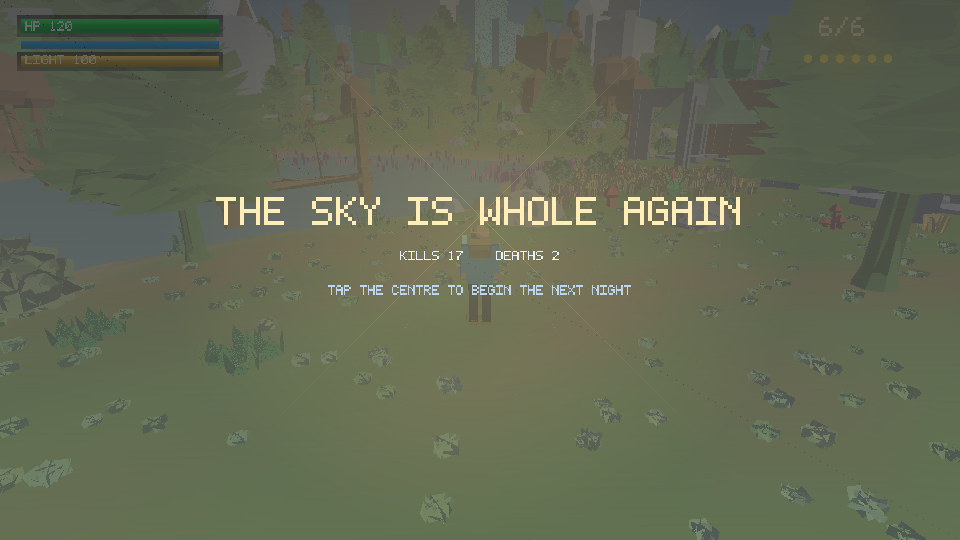
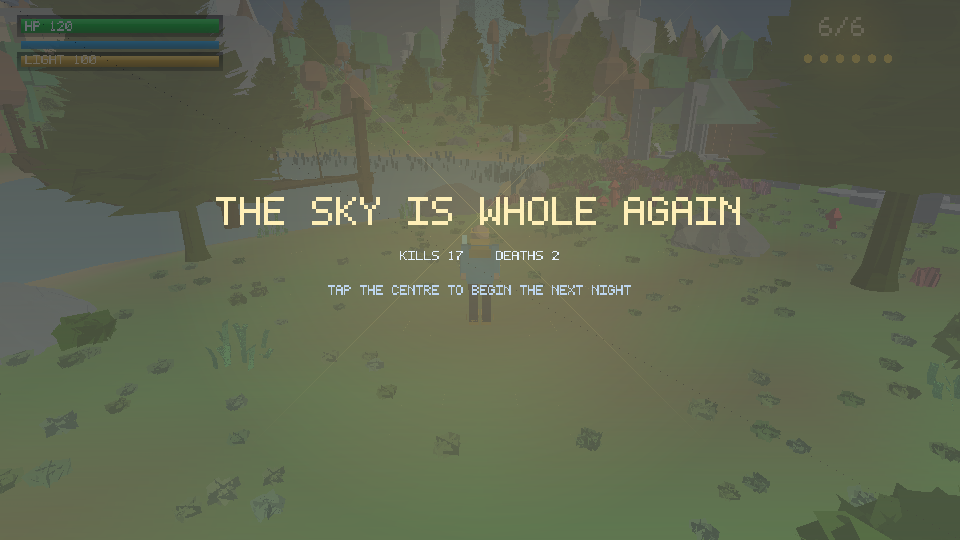
Expand the original fantasy valley landscape

diff --git a/app/src/main/java/com/laststar/game/gl/PropPlanner.java b/app/src/main/java/com/laststar/game/gl/PropPlanner.java
@@ -160,6 +160,7 @@ public final class PropPlanner {
         // quietly never appears. Attempt counts are high for the same reason:
         // water, slope, spawn clearance and overlaps reject most candidates.
         buildLandmarks(models, terrain, seed);
+        buildRidgeTown(models, terrain, seed);
         buildRidges(models, terrain, seed);
         buildPeaks(models, terrain, seed);
         buildPackMountains(models, terrain, seed);
@@ -728,6 +729,83 @@ public final class PropPlanner {
                 return;
             }
         }
+    }
+
+    /** A small original ridge settlement gives the valley a far destination and scale. */
+    private void buildRidgeTown(ModelLibrary models, Terrain terrain, long seed) {
+        float[] site = null;
+        float bestScore = Float.MAX_VALUE;
+        Random random = new Random(seed ^ 0x4D595DF4D0F33173L);
+        for (int i = 0; i < 360; i++) {
+            float angle = (float) Math.toRadians(205f + random.nextFloat() * 130f);
+            float radius = 82f + random.nextFloat() * 12f;
+            float x = (float) Math.cos(angle) * radius;
+            float z = (float) Math.sin(angle) * radius;
+            float h = terrain.heightAt(x, z);
+            if (z > -42f || h < terrain.waterLevel + 2f || terrain.slopeAt(x, z) > 0.48f
+                    || tooCloseToLandmarks(x, z, 25f)) continue;
+            float score = terrain.slopeAt(x, z) * 8f - h * 0.012f;
+            if (score < bestScore) { bestScore = score; site = new float[]{x, z}; }
+        }
+        if (site == null) return;
+
+        float cx = site[0], cz = site[1];
+        float yaw = (float) Math.toDegrees(Math.atan2(-cx, -cz));
+        float a = (float) Math.toRadians(yaw);
+        float tx = (float) Math.cos(a), tz = -(float) Math.sin(a);
+        // Three varied towers form a distinctive skyline without copying a
+        // particular game's city or landmark silhouette.
+        townPart(models, terrain, "tower-square-mid", cx, cz, 10f, yaw, -0.1f);
+        townPart(models, terrain, "tower-square-top-roof", cx, cz, 10.5f, yaw, 6.2f);
+        townPart(models, terrain, "flag-banner-long", cx, cz, 3.2f, yaw, 8.6f);
+        for (int side = -1; side <= 1; side += 2) {
+            float x = cx + tx * side * 17f;
+            float z = cz + tz * side * 17f;
+            townPart(models, terrain, "tower-hexagon-base", x, z, 7.2f, yaw, -0.1f);
+            townPart(models, terrain, "tower-hexagon-roof", x, z, 6.8f, yaw, 4.2f);
+            townPart(models, terrain, "flag-banner-long", x, z, 2.6f, yaw, 5.7f);
+        }
+        // A low stepped curtain wall and open gate sit across the ridge-facing side.
+        for (int i = -3; i <= 3; i++) {
+            float[] p = townPoint(cx, cz, yaw, i * 5.5f, 17f);
+            townPart(models, terrain, i == -3 || i == 3 ? "wall-pillar" : "wall",
+                    p[0], p[1], 5.5f, yaw + 90f, -0.15f);
+        }
+        float[] gate = townPoint(cx, cz, yaw, 0f, 17f);
+        townPart(models, terrain, "gate", gate[0], gate[1], 6.5f, yaw + 90f, 0f);
+
+        float[][] roof = {{0.76f, 0.32f, 0.27f}, {0.22f, 0.53f, 0.59f},
+                {0.65f, 0.48f, 0.73f}, {0.80f, 0.62f, 0.34f},
+                {0.79f, 0.42f, 0.31f}, {0.25f, 0.47f, 0.66f},
+                {0.68f, 0.55f, 0.36f}};
+        float[][] local = {{-15f, -8f}, {-5f, -8f}, {5f, -8f}, {15f, -8f},
+                {-11f, -19f}, {0f, -20f}, {11f, -19f}};
+        for (int i = 0; i < local.length; i++) {
+            float[] p = townPoint(cx, cz, yaw, local[i][0], local[i][1]);
+            VillageLayout.House house = new VillageLayout.House(p[0], p[1], yaw);
+            addBuildingPart(models, terrain, house, "wall-wood-door", 0f, 2.0f,
+                    3.9f, yaw, 0f, 0f, 0f, 0f, 0f);
+            addBuildingPart(models, terrain, house, "wall-doorway-square", 0f, -2.0f,
+                    3.9f, yaw + 180f, 0f, 0f, 0f, 0f, 0f);
+            addBuildingPart(models, terrain, house, "wall-doorway-square", -2.0f, 0f,
+                    3.9f, yaw - 90f, 0f, 0f, 0f, 0f, 0f);
+            addBuildingPart(models, terrain, house, "wall-doorway-square", 2.0f, 0f,
+                    3.9f, yaw + 90f, 0f, 0f, 0f, 0f, 0f);
+            addBuildingPart(models, terrain, house, "roof-point", 0f, 0f,
+                    4.7f, yaw, 1.8f, roof[i][0], roof[i][1], roof[i][2], 0.22f);
+        }
+    }
+
+    private float[] townPoint(float cx, float cz, float yaw, float localX, float localZ) {
+        float a = (float) Math.toRadians(yaw);
+        return new float[]{cx + (float) Math.cos(a) * localX + (float) Math.sin(a) * localZ,
+                cz - (float) Math.sin(a) * localX + (float) Math.cos(a) * localZ};
+    }
+
+    private void townPart(ModelLibrary models, Terrain terrain, String name,
+                          float x, float z, float metres, float yaw, float yOffset) {
+        terrainHeight = terrain.heightAt(x, z) + yOffset;
+        place(models, name, x, z, metres, yaw, 0f);
     }
 
     private void buildLandmarks(ModelLibrary models, Terrain terrain, long seed) {

diff --git a/app/src/main/java/com/laststar/game/gl/Geometry.java b/app/src/main/java/com/laststar/game/gl/Geometry.java
@@ -83,9 +83,9 @@ public final class Geometry {
 
                 // Base meadow: a warm yellow-green in the sun, deepening to a
                 // saturated teal-green in the hollows.
-                float gr = Noise.lerp(0.30f, 0.50f, p1) + 0.035f * blend;
-                float gg = Noise.lerp(0.56f, 0.78f, p1) + 0.035f * blend;
-                float gb = Noise.lerp(0.26f, 0.38f, p1) + 0.030f * blend;
+                float gr = Noise.lerp(0.27f, 0.45f, p1) + 0.035f * blend;
+                float gg = Noise.lerp(0.61f, 0.81f, p1) + 0.035f * blend;
+                float gb = Noise.lerp(0.22f, 0.34f, p1) + 0.030f * blend;
 
                 // Mid-scale clumps: this is what stops the field looking like
                 // a lawn and starts it looking painted.
@@ -101,10 +101,10 @@ public final class Geometry {
                 gb += speck * 0.75f;
 
                 // Dry earth: warm sand patches showing through the grass.
-                float dirtT = Noise.smoothstep(0.66f, 0.94f, p2) * 0.80f;
-                gr = lerp(gr, 0.76f, dirtT);
-                gg = lerp(gg, 0.62f, dirtT);
-                gb = lerp(gb, 0.42f, dirtT);
+                float dirtT = Noise.smoothstep(0.72f, 0.97f, p2) * 0.58f;
+                gr = lerp(gr, 0.66f, dirtT);
+                gg = lerp(gg, 0.56f, dirtT);
+                gb = lerp(gb, 0.35f, dirtT);
 
                 // Rock on any real gradient. The threshold is deliberately low:
                 // a 1-in-3 mountain face is only slope 0.5 here, and the whole
@@ -126,6 +126,20 @@ public final class Geometry {
                 gr = lerp(gr, 0.86f, sandT);
                 gg = lerp(gg, 0.79f, sandT);
                 gb = lerp(gb, 0.60f, sandT);
+
+                // A narrow, globally aligned footpath winds through the meadow.
+                // It is baked into vertex colour, so it remains seamless across
+                // streamed chunk edges without a texture or extra draw call.
+                float trailNoise = fastNoise(z * 0.018f, 7.3f)
+                        - fastNoise(0f, 7.3f);
+                float trailX = trailNoise * 18f;
+                float trailD = Math.abs(x - trailX);
+                float trail = (1f - Noise.smoothstep(1.4f, 3.2f, trailD)) * 0.72f;
+                trail *= (1f - sandT * 0.90f) * (1f - rockT * 0.60f);
+                float trailVariation = (p3 - 0.5f) * 0.06f;
+                gr = lerp(gr, 0.63f + trailVariation, trail);
+                gg = lerp(gg, 0.53f + trailVariation, trail);
+                gb = lerp(gb, 0.34f + trailVariation, trail);
 
                 // Snow on the summits only. The band is broken up by noise so
                 // the snowline is ragged rather than a painted contour, and it

diff --git a/desktop/Raster.java b/desktop/Raster.java
@@ -499,15 +499,15 @@ public final class Raster {
         float mid = band(ndl, 0.24f);
         float lit = band(ndl, 0.58f);
 
-        float shadowR = cr * 0.34f * (0.88f + 0.12f * clamp01(ambient[0]));
-        float shadowG = cg * 0.40f * (0.88f + 0.12f * clamp01(ambient[1]));
-        float shadowB = cb * 0.61f * (0.88f + 0.12f * clamp01(ambient[2]));
-        float midR = cr * (0.58f + sunR * 0.08f);
-        float midG = cg * (0.64f + sunG * 0.08f);
-        float midB = cb * (0.79f + sunB * 0.08f);
-        float fullR = cr * (0.77f + sunR * 0.10f);
-        float fullG = cg * (0.81f + sunG * 0.10f);
-        float fullB = cb * (0.91f + sunB * 0.10f);
+        float shadowR = cr * 0.43f * (0.86f + 0.14f * clamp01(ambient[0]));
+        float shadowG = cg * 0.53f * (0.86f + 0.14f * clamp01(ambient[1]));
+        float shadowB = cb * 0.67f * (0.86f + 0.14f * clamp01(ambient[2]));
+        float midR = cr * (0.62f + sunR * 0.06f);
+        float midG = cg * (0.69f + sunG * 0.06f);
+        float midB = cb * (0.82f + sunB * 0.06f);
+        float fullR = cr * (0.83f + sunR * 0.05f);
+        float fullG = cg * (0.89f + sunG * 0.05f);
+        float fullB = cb * (0.97f + sunB * 0.05f);
         float r = lerp(shadowR, midR, mid);
         float g = lerp(shadowG, midG, mid);
         float b = lerp(shadowB, midB, mid);

diff --git a/app/src/main/java/com/laststar/game/gl/Shaders.java b/app/src/main/java/com/laststar/game/gl/Shaders.java
@@ -95,10 +95,10 @@ public final class Shaders {
                     + "  float diffuse = max(dot(n, normalize(uSunDir)), 0.0);\n"
                     + "  float mid = band(diffuse, 0.24);\n"
                     + "  float lit = band(diffuse, 0.58);\n"
-                    + "  vec3 shadow = base * vec3(0.34, 0.40, 0.61);\n"
-                    + "  shadow *= 0.88 + 0.12 * clamp(uAmbient, 0.0, 1.0);\n"
-                    + "  vec3 halfLight = base * (vec3(0.58, 0.64, 0.79) + uSunColor * 0.08);\n"
-                    + "  vec3 fullLight = base * (vec3(0.77, 0.81, 0.91) + uSunColor * 0.10);\n"
+                    + "  vec3 shadow = base * vec3(0.43, 0.53, 0.67);\n"
+                    + "  shadow *= 0.86 + 0.14 * clamp(uAmbient, 0.0, 1.0);\n"
+                    + "  vec3 halfLight = base * (vec3(0.62, 0.69, 0.82) + uSunColor * 0.06);\n"
+                    + "  vec3 fullLight = base * (vec3(0.83, 0.89, 0.97) + uSunColor * 0.05);\n"
                     + "  vec3 shade = mix(shadow, halfLight, mid);\n"
                     + "  shade = mix(shade, fullLight, lit);\n"
                     + "  float rim = pow(1.0 - clamp(dot(n, viewDir), 0.0, 1.0), 3.0);\n"

diff --git a/app/src/main/java/com/laststar/game/world/VillageLayout.java b/app/src/main/java/com/laststar/game/world/VillageLayout.java
@@ -13,7 +13,7 @@ public final class VillageLayout {
 
     public static final class House {
         public final float x, z, yaw;
-        House(float x, float z, float yaw) { this.x = x; this.z = z; this.yaw = yaw; }
+        public House(float x, float z, float yaw) { this.x = x; this.z = z; this.yaw = yaw; }
     }
 
     private VillageLayout() { }
